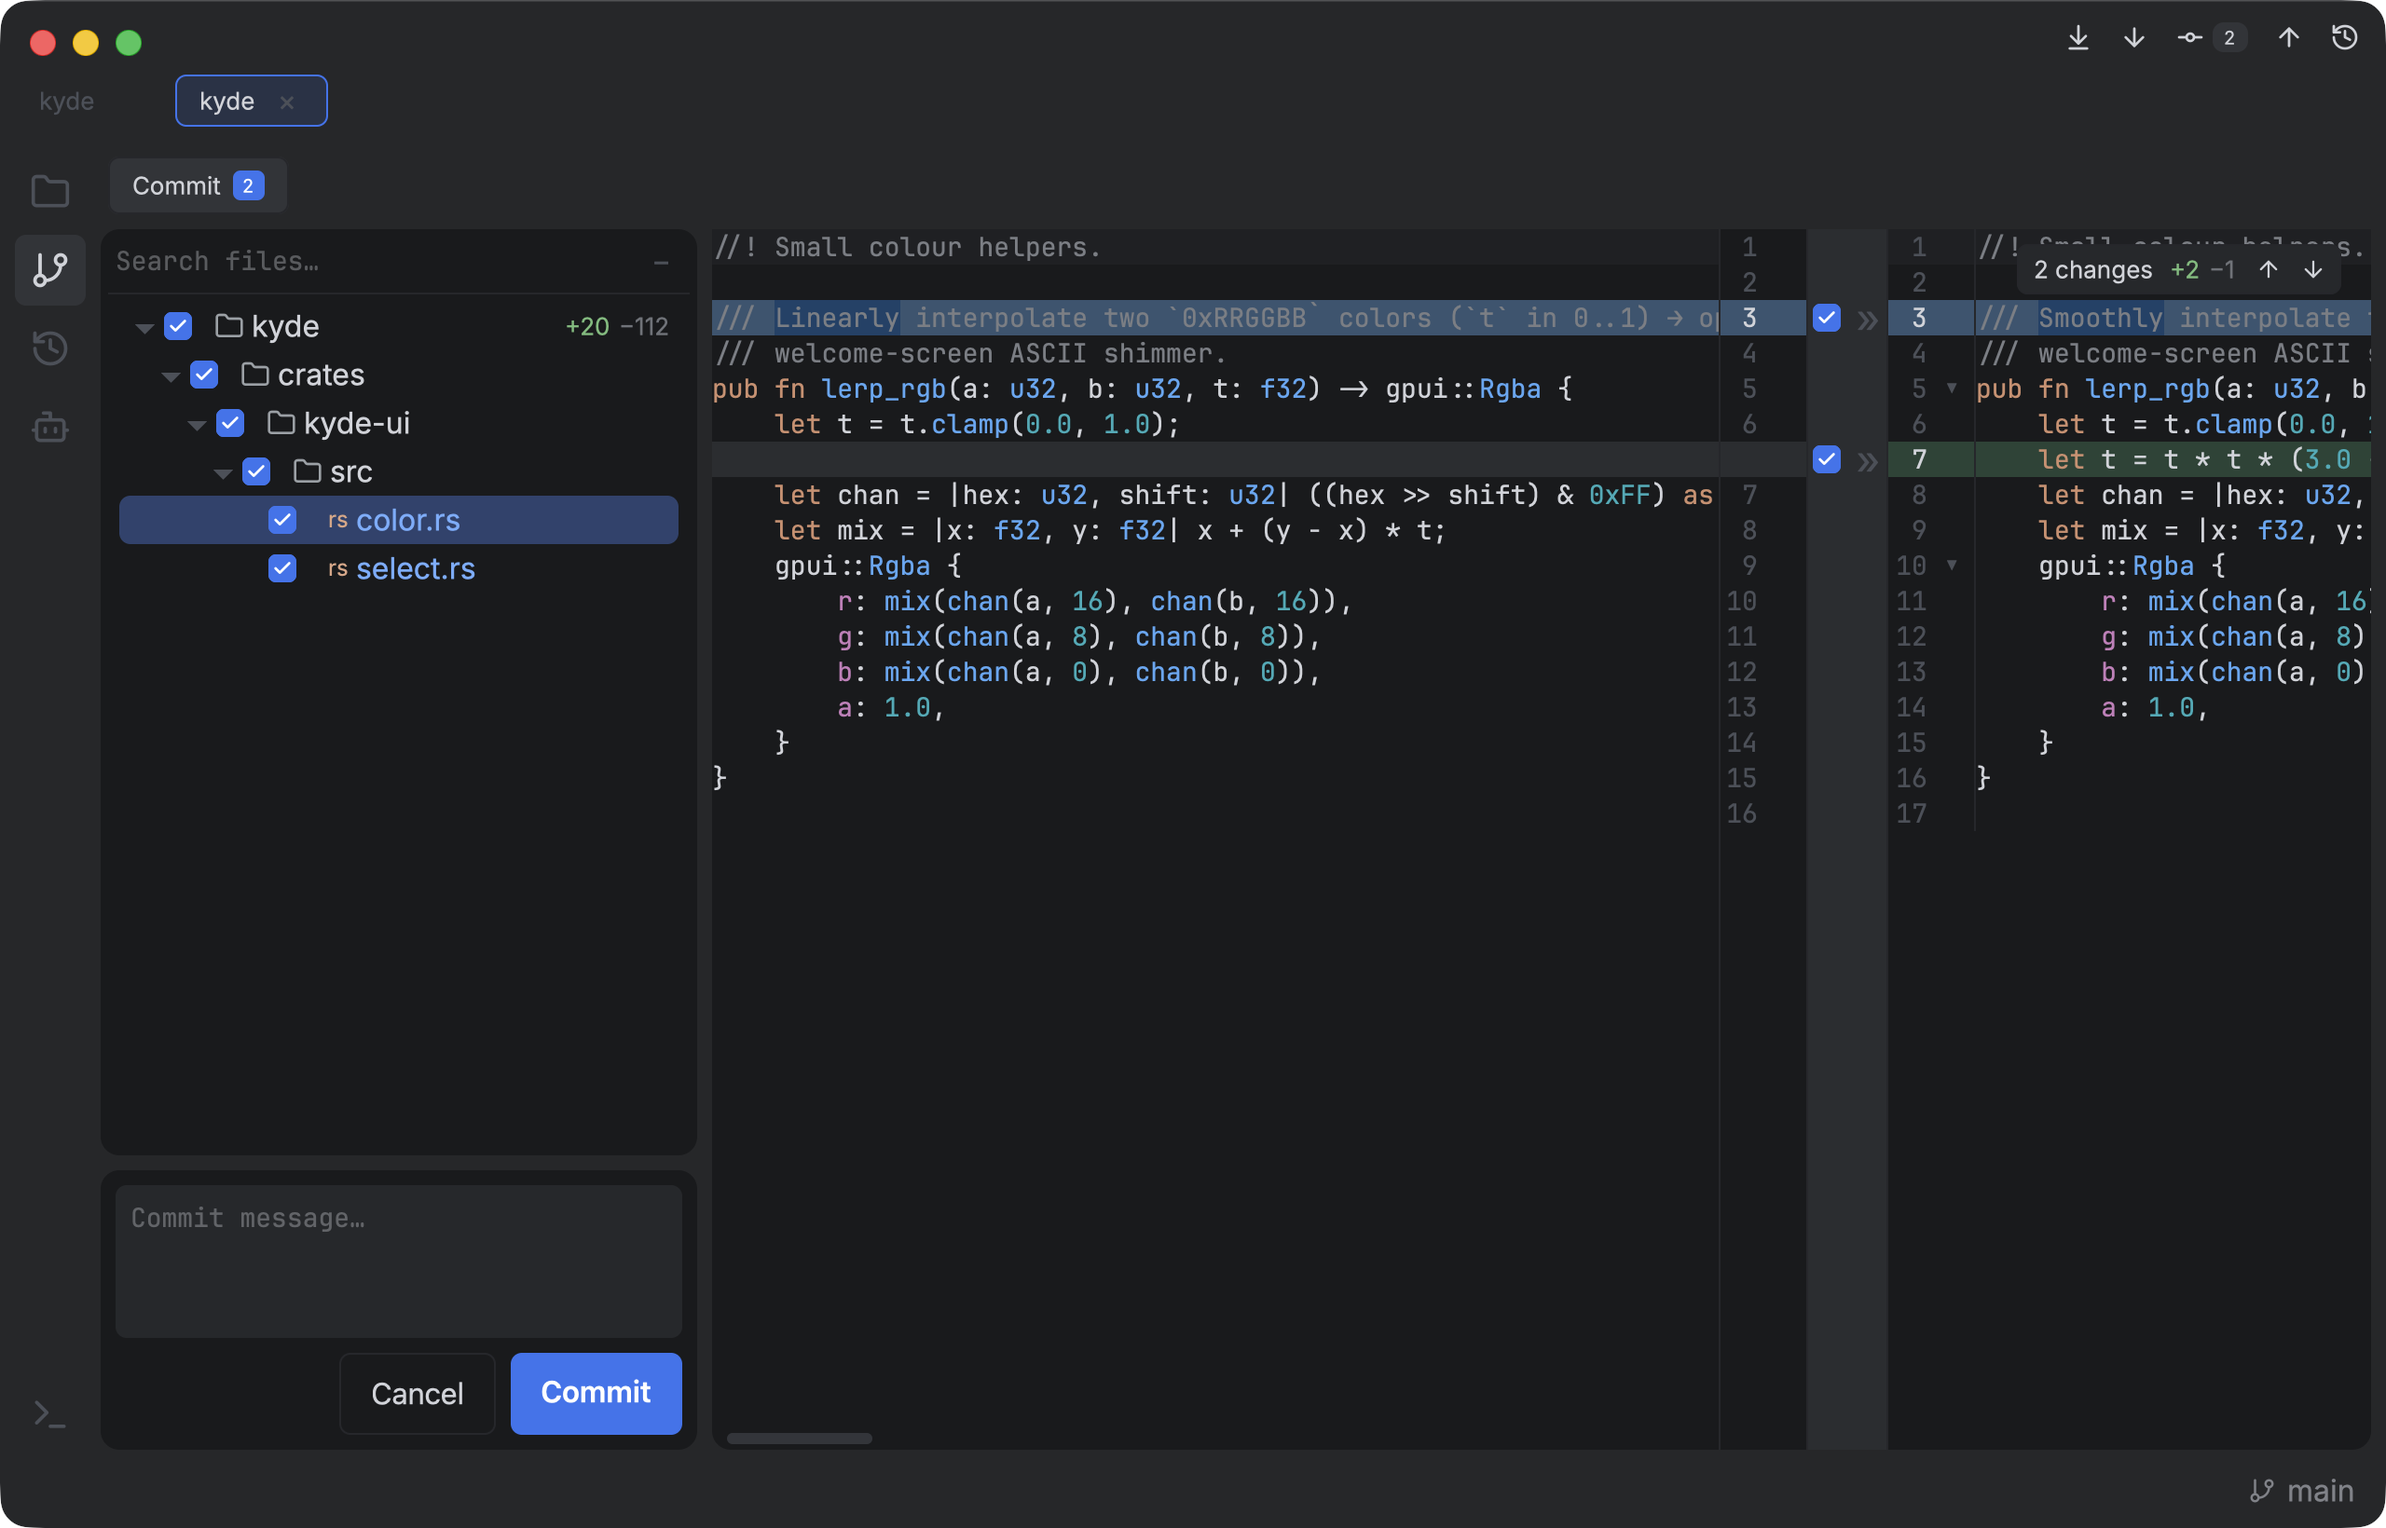
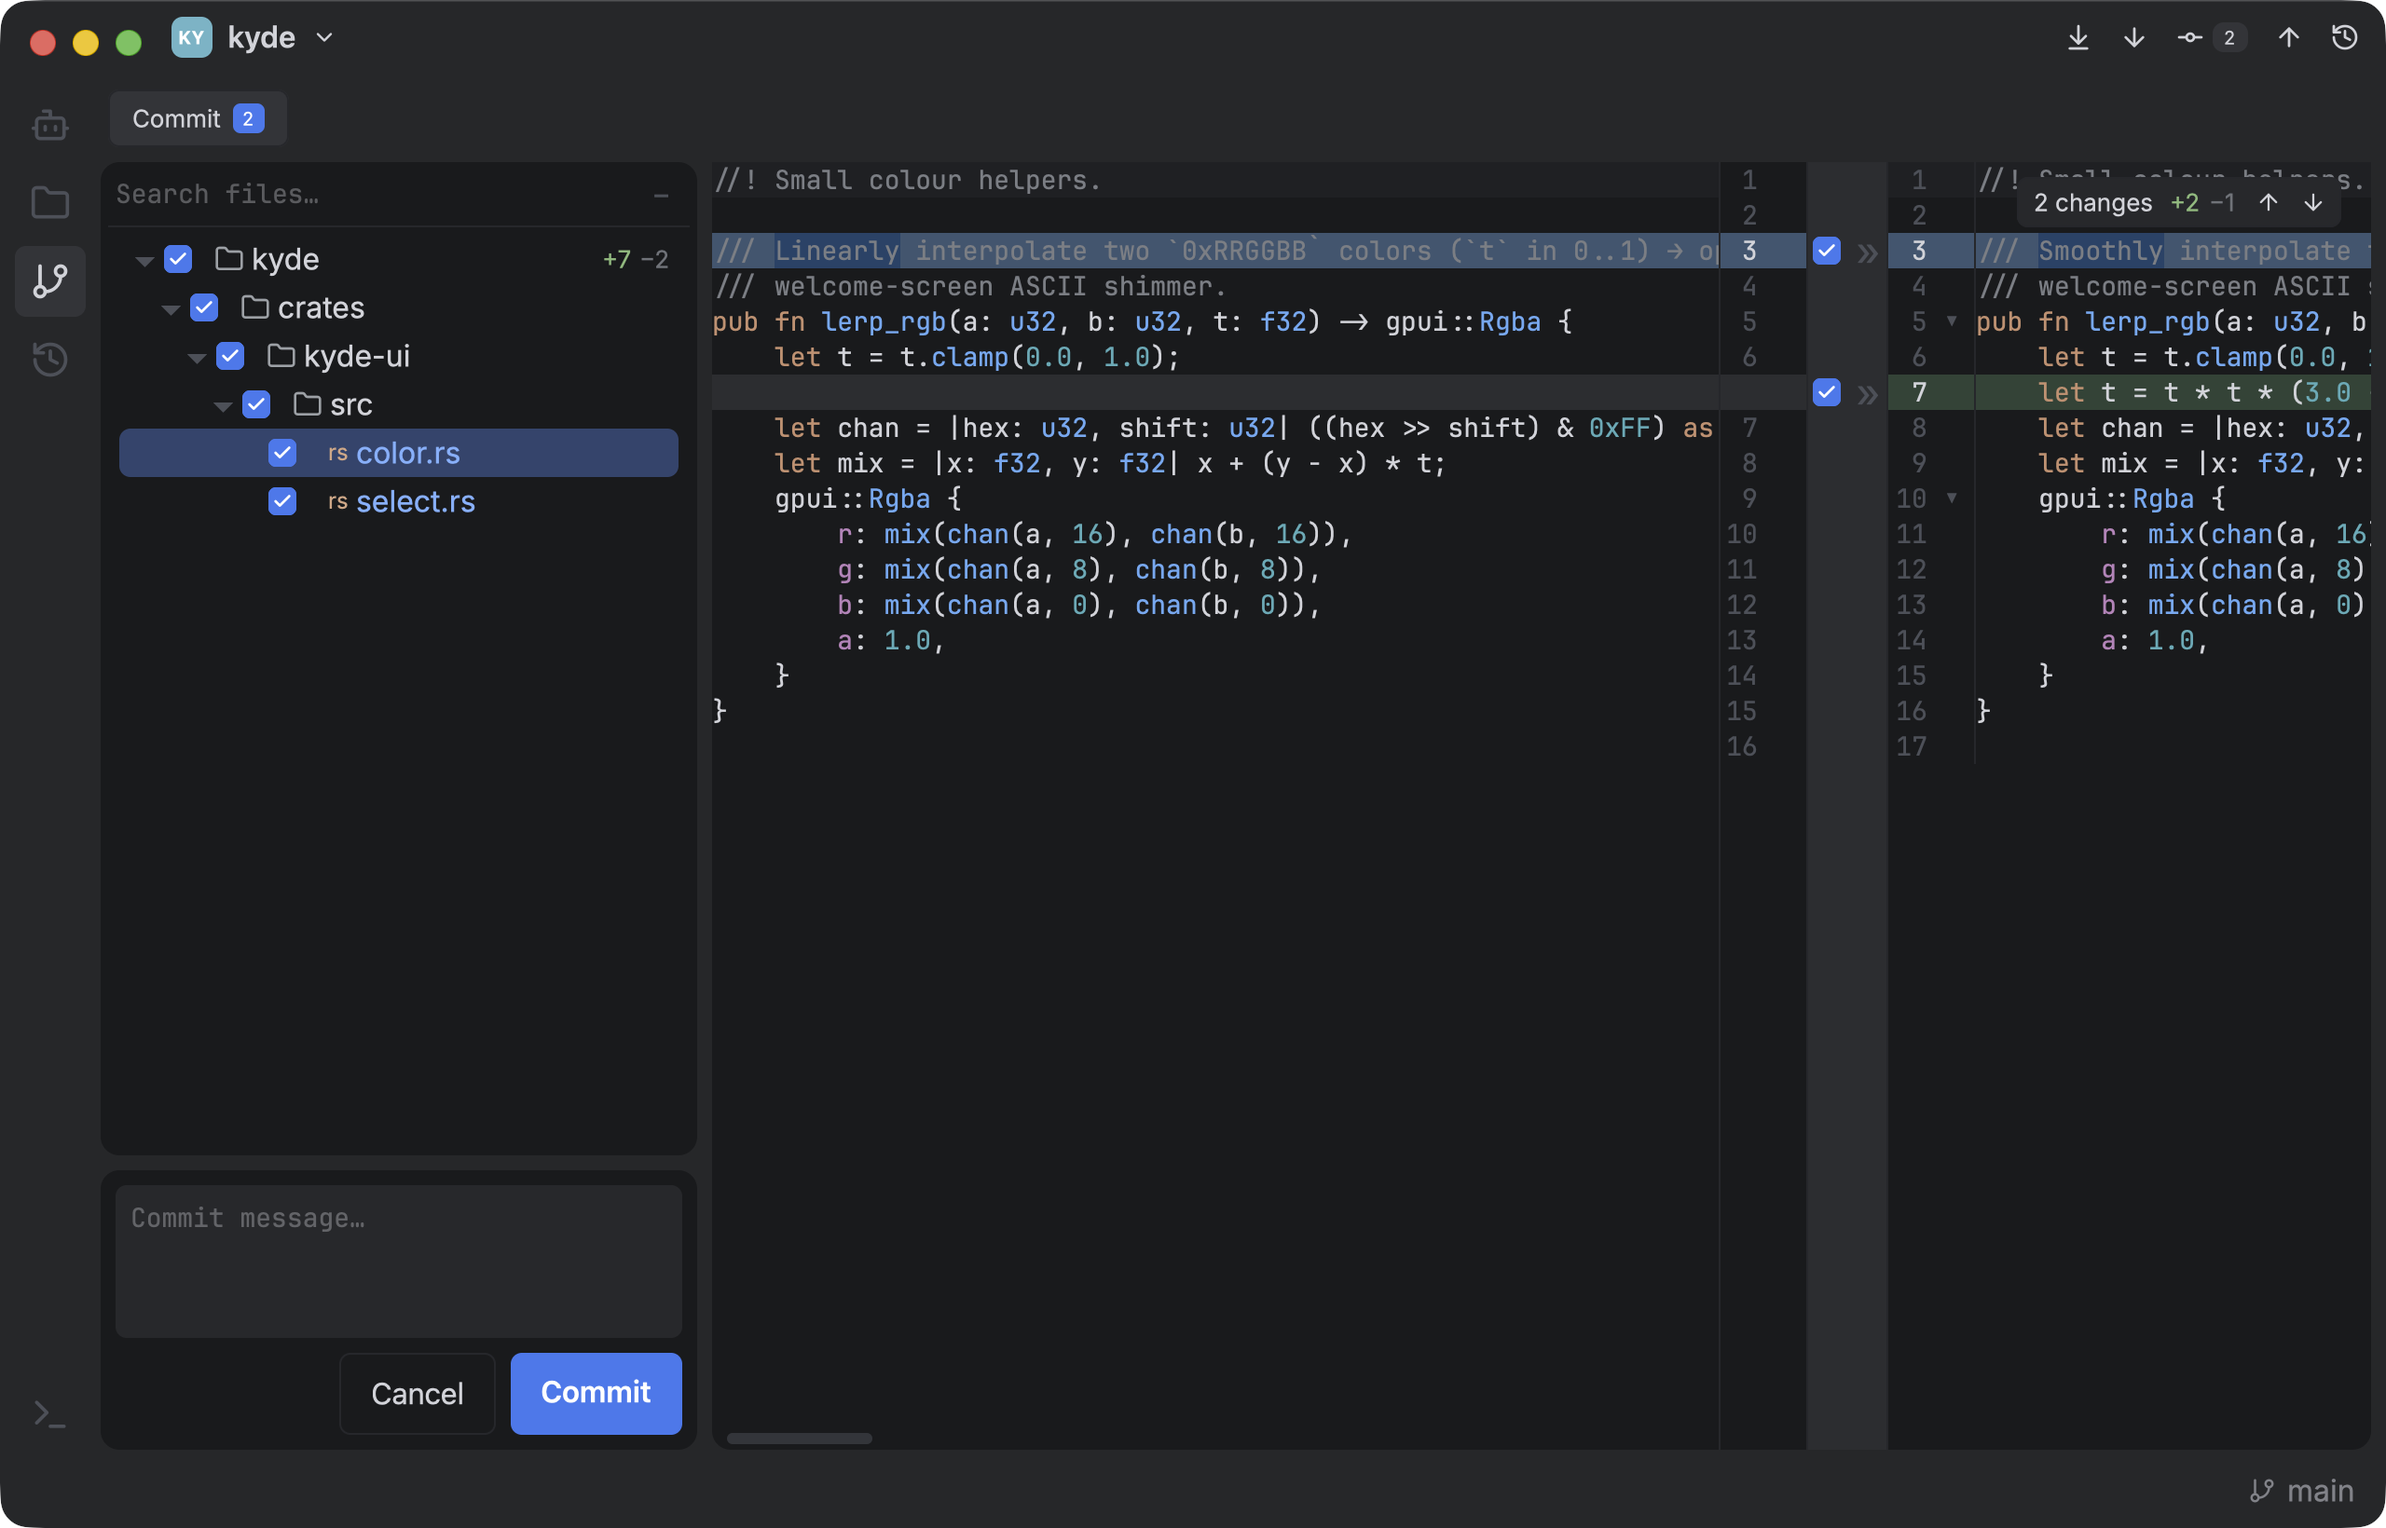
docs: retake the README screenshots for the Agents-first layout
Agents now leads the activity rail and the title bar names the project
and worktree, so the README's shots showed an older app.

The shot setup had to catch up first:
- The agents shot starts an agent in each worktree. Selecting a linked
  worktree stopped doing that in #146, which left the shot empty.
- The git-diff shot keeps only the fixture's project tab, not a second
  "kyde" for the repo Kyde was launched on.
- screenshots.sh hides other apps only for region grabs. A window grab
  doesn't need it, and those captures kept failing with it on.

diff --git a/src/main.rs b/src/main.rs
@@ -3961,6 +3961,10 @@ fn apply_shot(view: &mut Kyde, name: &str, window: &mut Window, cx: &mut Context
             // so the diff pane always has content to show.
             if let Ok(repo) = std::env::var("KYDE_SHOT_REPO") {
                 view.open_project(PathBuf::from(repo), cx);
+                // Only the fixture's tab: the repo Kyde was launched on would read as a second
+                // "kyde" project.
+                let root = view.repo_root.clone();
+                view.open_projects.retain(|p| Some(p) == root.as_ref());
             }
             view.enter_commit(cx);
             // Click a changed file so the main content shows a side-by-side diff.
@@ -4316,6 +4320,8 @@ fn apply_shot(view: &mut Kyde, name: &str, window: &mut Window, cx: &mut Context
             view.switch_mode(Mode::Agents, cx);
             view.agents_select(root, cx);
             for wt in wts.iter().rev() {
+                // Selecting a linked worktree doesn't start an agent there.
+                view.agents_new_tab(wt.clone(), true, None, cx);
                 view.agents_select(wt.clone(), cx);
             }
             for (i, wt) in wts.iter().enumerate() {
